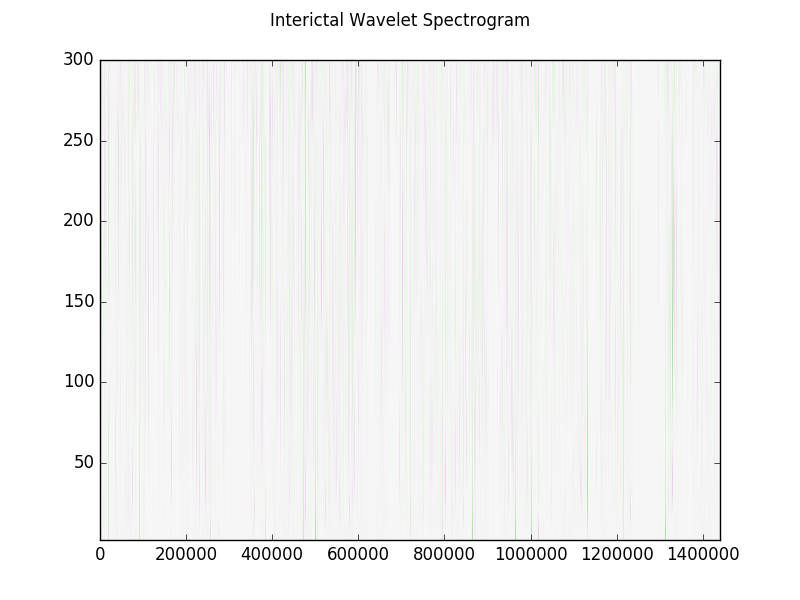
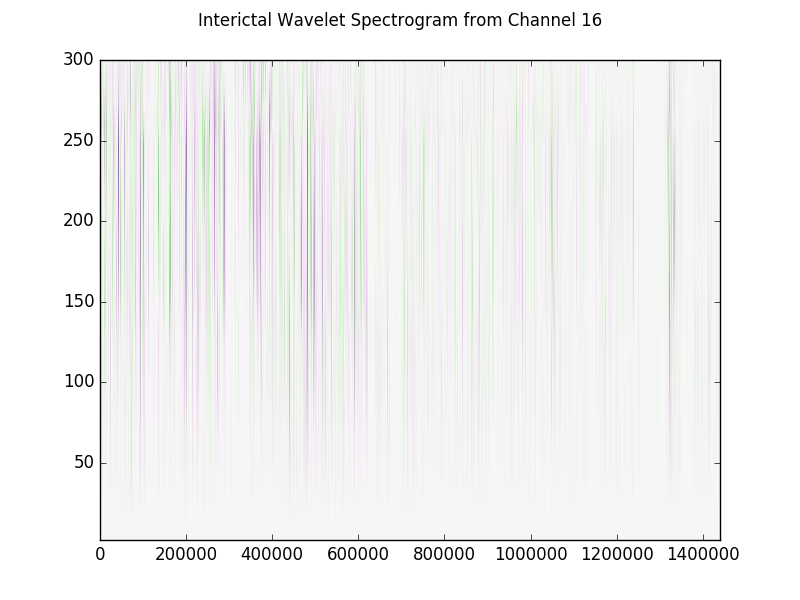
more

diff --git a/code/visualizations.py b/code/visualizations.py
@@ -117,12 +117,12 @@ def wavelet_spectrogram(mat, title, name):
     # pool = multiprocessing.Pool(40)
     # output = pool.map(continuous_wavelet_tranformation, mat.T)
     freq = return_frequencies()
-    result = np.array([])
-    for i in range(16):
-        if i == 0:
-            result = signal.cwt(mat[:,i], signal.ricker, freq)
-        else:
-            result += signal.cwt(mat[:,i], signal.ricker, freq)
+    result = signal.cwt(mat[:,15], signal.ricker, freq)
+    #for i in range(16):
+    #    if i == 0:
+    #        result = signal.cwt(mat[:,i], signal.ricker, freq)
+    #    else:
+    #        result += signal.cwt(mat[:,i], signal.ricker, freq)
     # result = output[0]
     # for i in result[1:]:
 	# result += i
@@ -159,9 +159,9 @@ if __name__ == '__main__':
     #     'figures/kde2.png')
 
     wavelet_spectrogram(i_compiled,
-        'Interictal Wavelet Spectrogram',
+        'Interictal Wavelet Spectrogram from Channel 16',
         'figures/spectrogram_i.png')
 
     wavelet_spectrogram(p_compiled,
-        'Preictal Wavelet Spectrogram',
+        'Preictal Wavelet Spectrogram from Channel 16',
         'figures/spectrogram_p.png')
